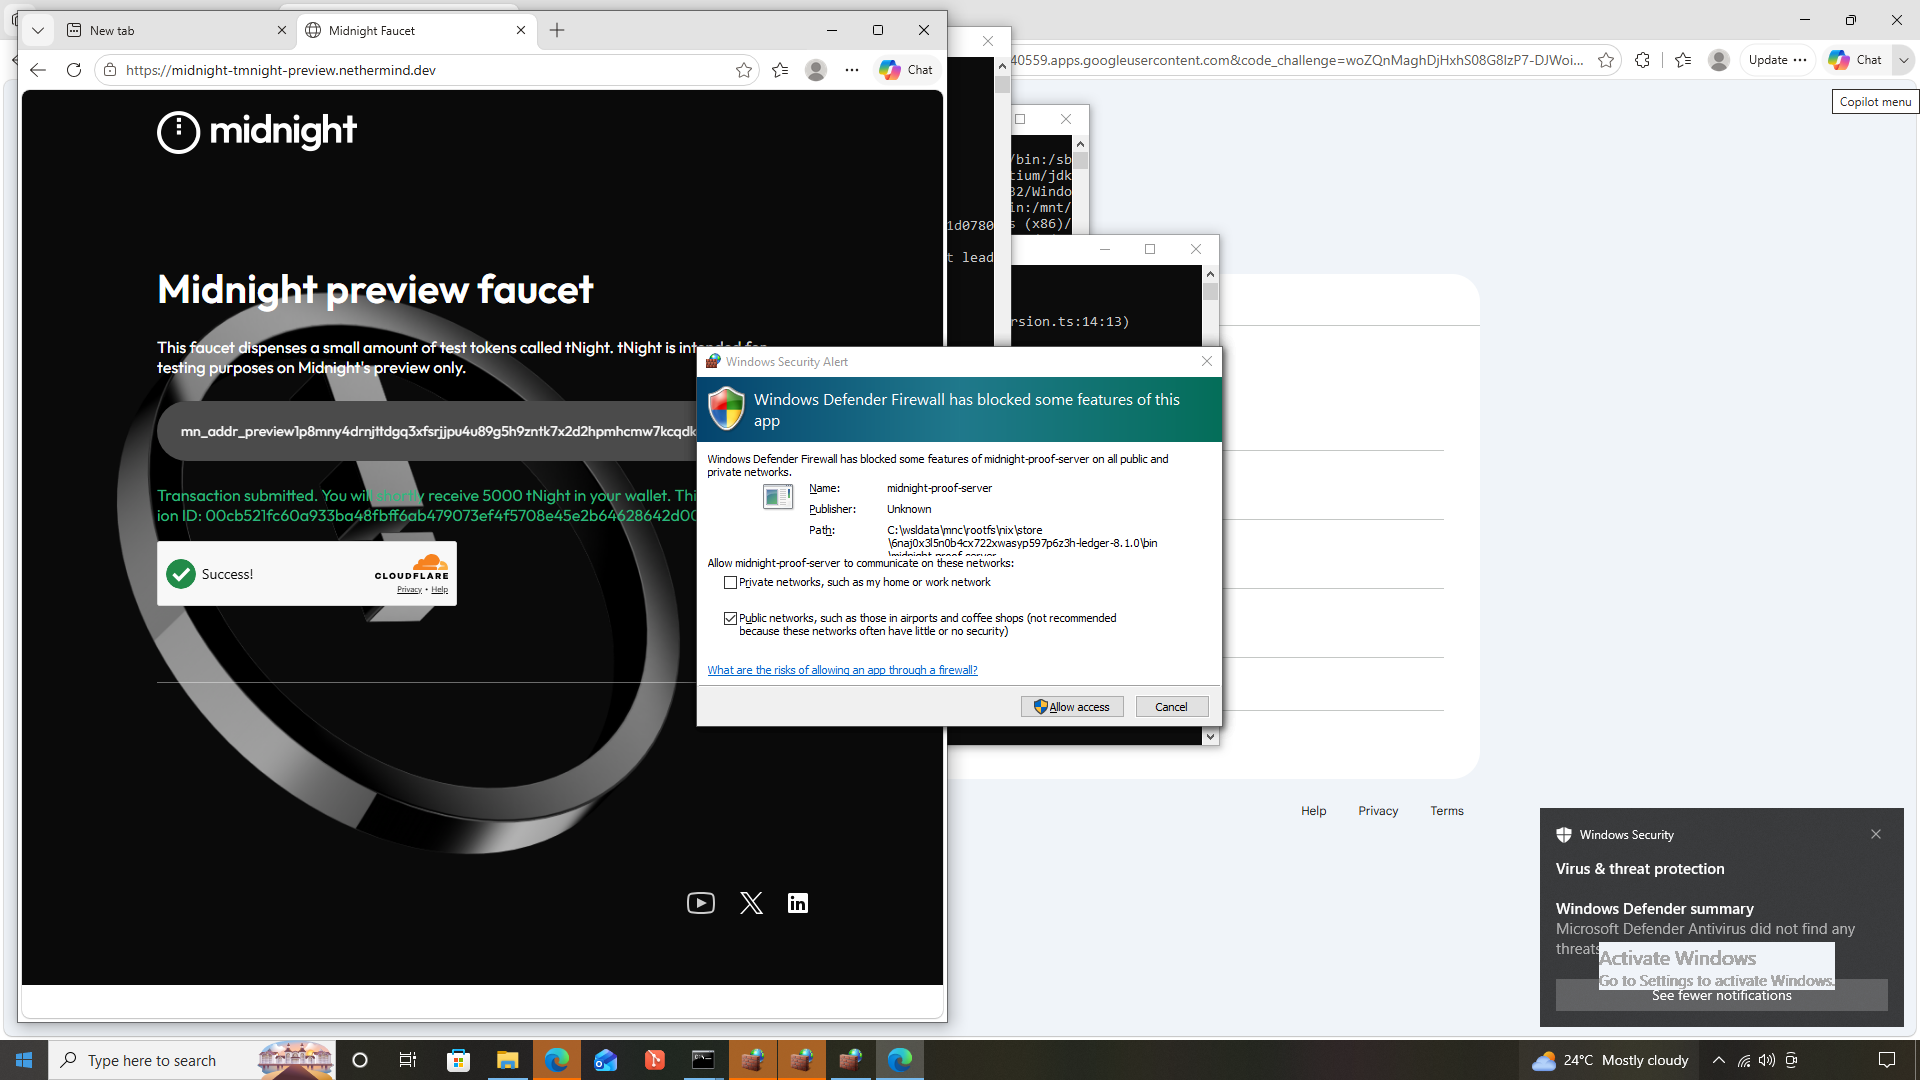
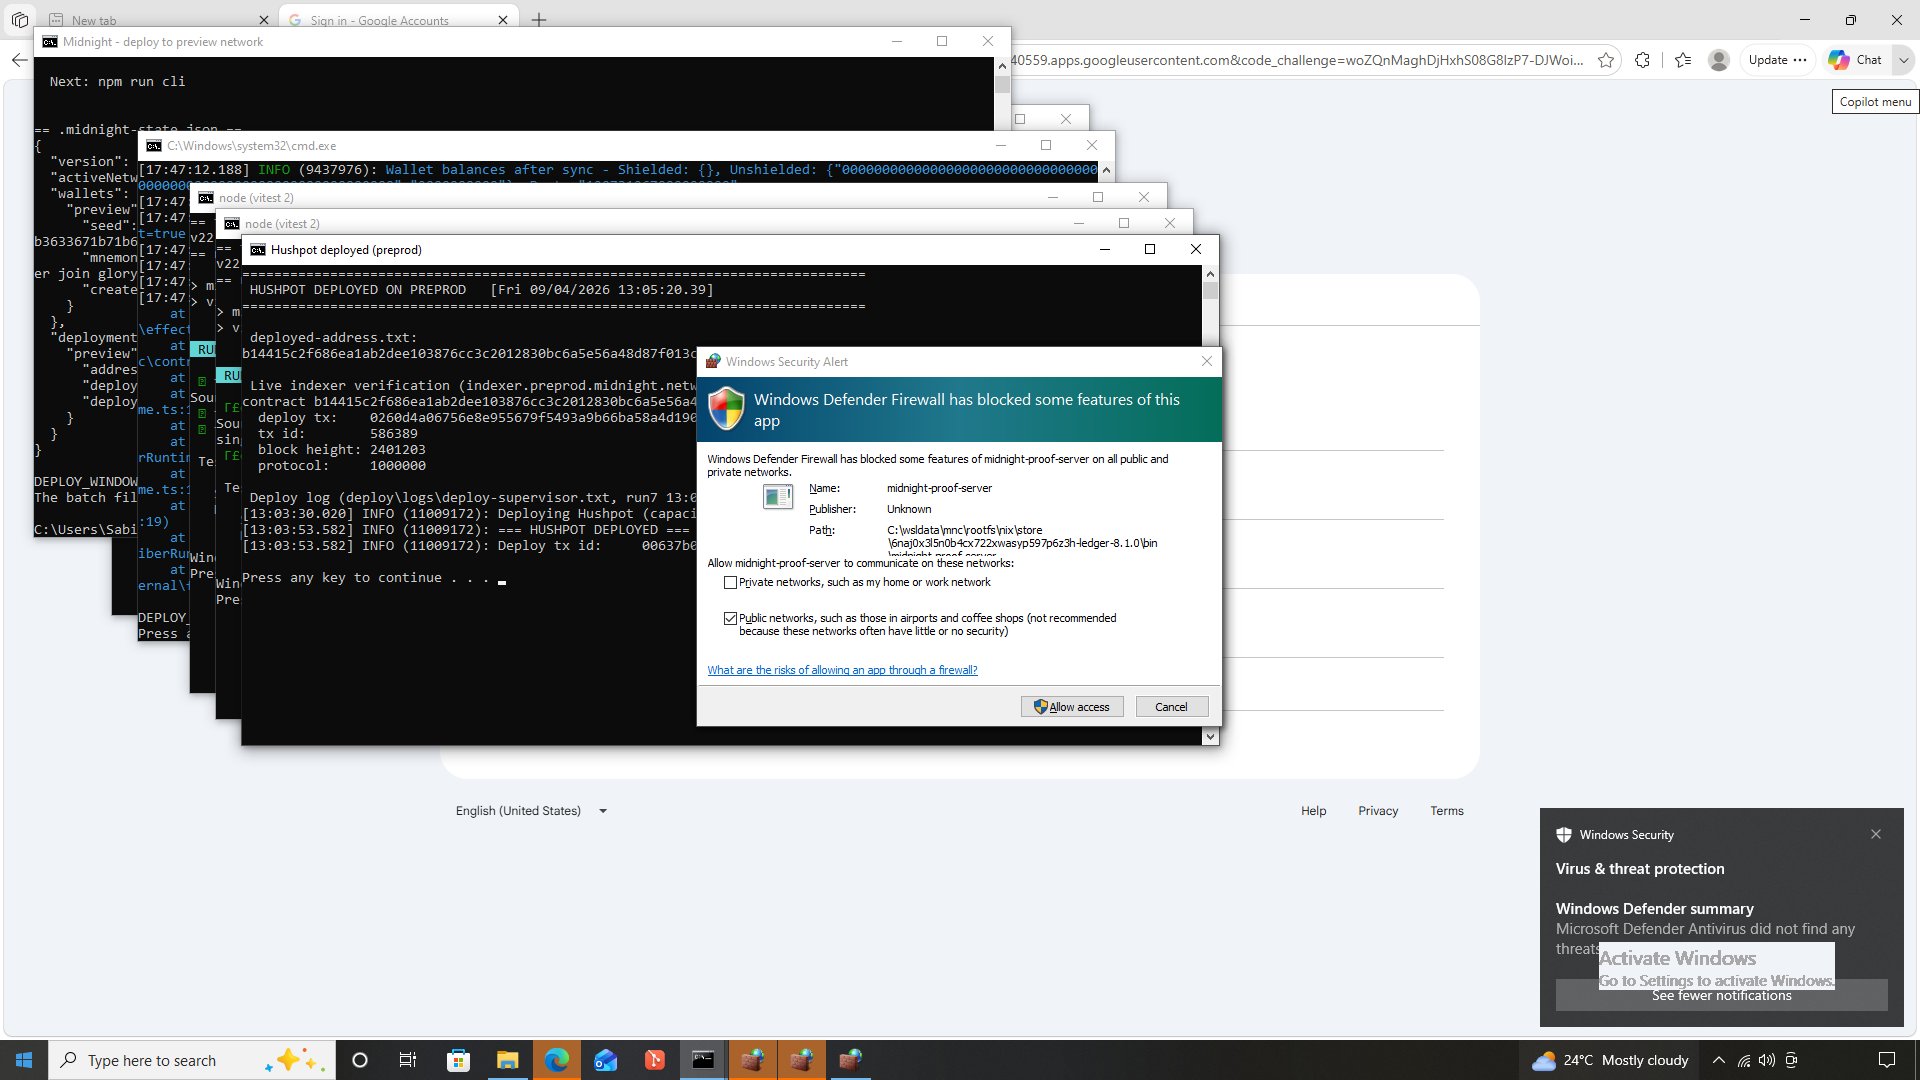
docs(readme): Hushpot deployed on preprod  - Contract Address table: preprod row filled in   (b14415c2...f4abb4, deploy tx 0260d4a0...e191ae, block 2,401,203) - screenshots/02-deployed-address.png: replaced with the run7 evidence   capture (deployed-address.txt + live indexer verification) - tools/s

Changed region(s): [[0.0, 0.0, 0.6562, 1.0], [0.625, 0.2139, 0.6562, 0.3056]]

diff --git a/README.md b/README.md
@@ -2,10 +2,10 @@
 > Private group savings pots on Midnight — pledge amounts stay secret; the pot only proves you've met the minimum.
 
 ## Contract Address
-| Network | Address |
-|----------|----------------------------------|
-| Preview  | [PASTE ADDRESS AFTER DEPLOY] |
-| Preprod  | [PASTE ADDRESS AFTER DEPLOY] |
+| Network | Address | Deploy Tx | Block |
+|---------|---------|-----------|-------|
+| Preview  | [PASTE ADDRESS AFTER DEPLOY] | — | — |
[1 lines of base64/hex data omitted]
 
 ## What This Does
 HushPot is a group savings pot in the esusu / ajo tradition: a host opens a pot with a fixed capacity (number of seats) and a minimum pledge, members join and put money in while entries are open, the host closes entries, and valid members claim from the pot afterwards.
